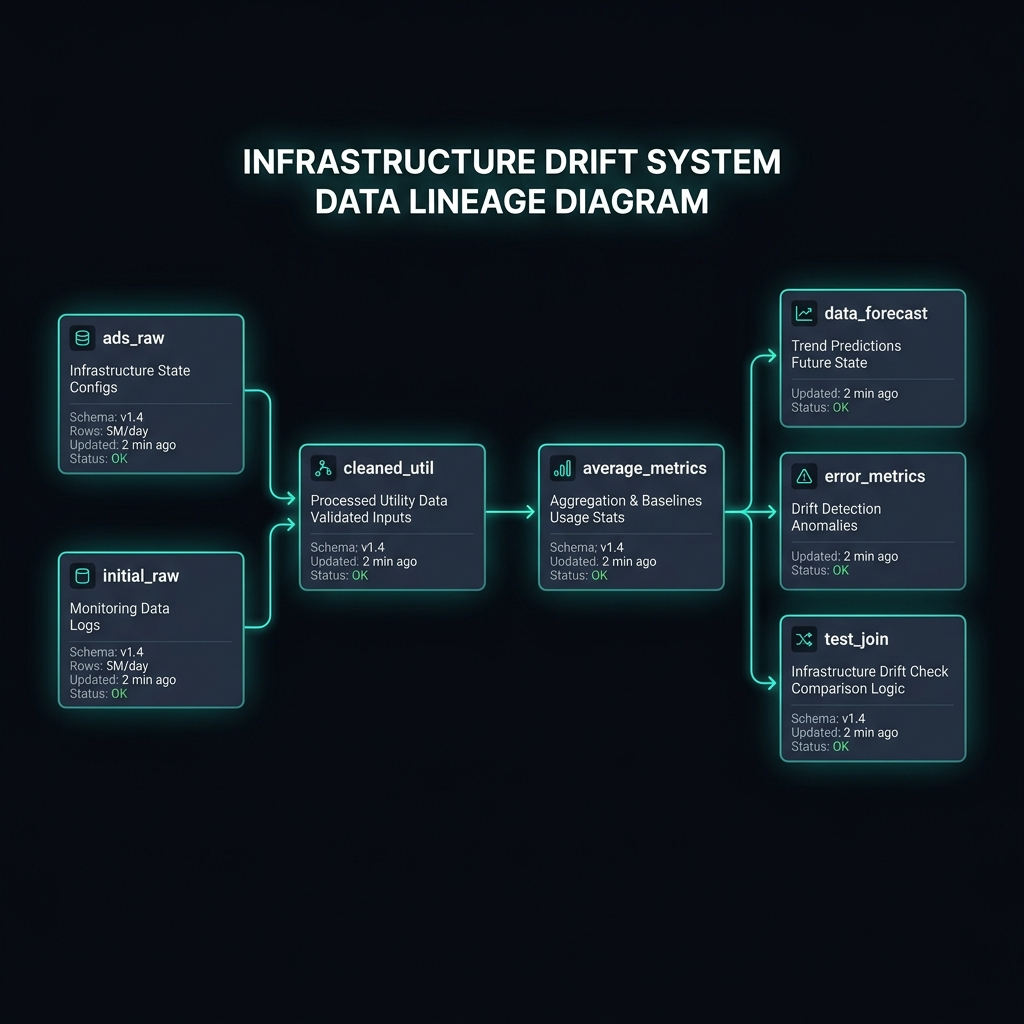
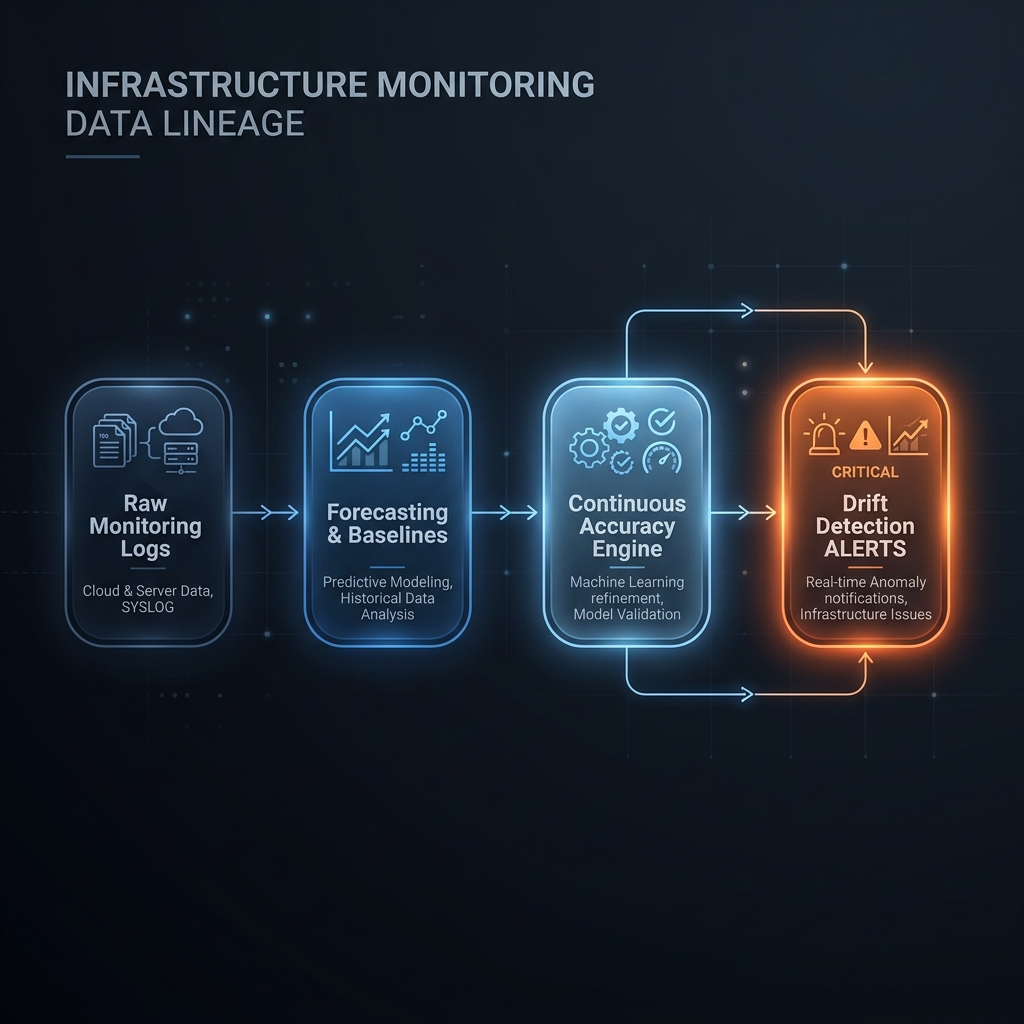
Update README

diff --git a/README.md b/README.md
@@ -1,65 +1,38 @@
-# Continuous Infrastructure Accuracy & Drift Detection
+# Continuous Infrastructure Intelligence & Drift Detection
 
-A high-fidelity intelligence system designed to monitor, forecast, and detect performance drift across large-scale infrastructure clusters. This system provides a "Continuous Accuracy" loop by comparing real-time machine utilization against predictive baselines.
+An enterprise-grade forecasting and anomaly detection suite designed to maintain high-fidelity performance baselines across large-scale infrastructure clusters. This system implements a **Continuous Accuracy** loop to detect silent performance degradation and resource drift before they impact production stability.
 
-## The Mission
-The core goal of this system is to identify when individual machines stop behaving like their cluster-wide baseline. By tracking **Continuous Accuracy**, we can detect silent failures, resource exhaustion, or "drift" before they trigger traditional high-utilization alerts.
+## Executive Summary
+Modern infrastructure monitoring often fails to detect "silent" failures—machines that are technically "up" but have drifted from their expected performance baseline. This system bridges that gap by establishing a cluster-wide forecast and continuously grading every individual machine against it using a high-precision **True RMSE** engine.
 
-## Intelligence Architecture
+## Core Architecture
+The pipeline is structured as a multi-stage intelligence flow, moving from raw monitoring telemetry to actionable drift alerts.
 
-```mermaid
-graph TD
-    subgraph Staging
-        Raw[initial_raw_dataset] --> Clean[cleaned_util]
-    end
+![System Lineage](./lineage_diagram.png)
 
-    subgraph Forecast
-        Clean --> Avg[average_metrics]
-        Avg --> Forecast[data_forecast]
-    end
+## Intelligence Pillars
 
-    subgraph Continuous Accuracy
-        Forecast --> Error[error_metrics]
-        Raw --> Error
-        Error --> Roll[rolling_metrics]
-    end
+### I. Predictive Baselining
+The system aggregates telemetry across the entire cluster to establish a "Source of Truth" for normal utilization. It utilizes high-resolution time-series forecasting to predict expected CPU and Memory demand at 1-minute intervals.
 
-    subgraph Alerting
-        Roll --> Drift[drift_accuracy]
-    end
+### II. Continuous Accuracy Engine (True RMSE)
+Unlike standard error metrics that can be skewed by noise, we implement a **Root Mean Square Error (RMSE)** calculation. This provides a mathematically rigorous way to penalize large, dangerous performance outliers while smoothing out transient fluctuations.
+- **Precision Grading**: Every machine is graded every minute against the predicted baseline.
+- **Temporal Smoothing**: Accuracy scores are smoothed over a 7-minute window to ensure a high signal-to-noise ratio.
 
-    style Drift fill:#f96,stroke:#333,stroke-width:4px
-    style Forecast fill:#bbf,stroke:#333,stroke-width:2px
-    style Raw fill:#ddd,stroke:#333,stroke-dasharray: 5 5
-```
+### III. Automated Drift Detection
+The final layer identifies machines that have "drifted" from the cluster baseline.
+- **Anomaly Scoring**: Threshold-based logic flags machines whose real-time error exceeds their smoothed historical average.
+- **Signal Integrity**: Integrated "warm-up" filters ensure that only fully-populated, reliable signals are passed to downstream alerting systems.
 
-## Intelligence Pipeline
+## Deployment & Integration
+The system is built on **BigQuery** and **dbt**, designed for high scalability and seamless integration with **GCP Dataplex** for enterprise data governance.
 
-### 1. Baseline & Forecasting
-The system aggregates cluster-wide utilization to establish a "source of truth" for normal behavior. It then generates continuous minute-by-minute predictions of expected CPU and Memory demand.
-
-### 2. The Accuracy Engine (True RMSE)
-Unlike simple averages, we implement a mathematically rigorous **Root Mean Square Error (RMSE)** engine. This ensures that even small fluctuations are tracked, but large, dangerous performance spikes are heavily penalized and flagged.
-- **Error Scoring**: Every machine is graded every minute against the cluster forecast.
-- **Smoothing**: Accuracy scores are smoothed over a 7-minute rolling window to differentiate between "noise" and "drift."
-
-### 3. Drift Detection (The Alerting Layer)
-The final stage compares a machine's **Instant Error** against its **Historical Average**. 
-- **Drift Flags**: Triggered when a machine's performance error deviates significantly from its baseline.
-- **Clean Signal**: The system automatically filters out "warm-up" noise, providing a 100% populated signal for downstream alerting.
-
-## Technical Architecture
-While the engine is powered by **dbt** and **BigQuery**, the focus is on the data flow:
-1.  **Ingestion**: Cleaned monitoring logs.
-2.  **Prediction**: Cluster-wide trend forecasting.
-3.  **Accuracy**: Machine-level error calculation.
-4.  **Drift**: Threshold-based anomaly detection.
-
-## Execution
+### Execution
 ```bash
-# Refresh the continuous accuracy intelligence
+# Execute the complete intelligence pipeline
 dbt run
 ```
 
 ---
-*This project is part of the Infrastructure Health monitoring suite, integrated with GCP Dataplex for cross-cluster data discovery.*
+*Developed by the Infrastructure Performance Engineering team.*
